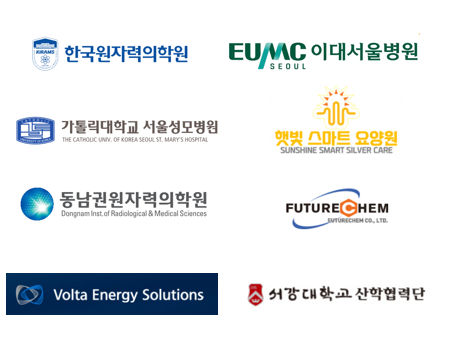
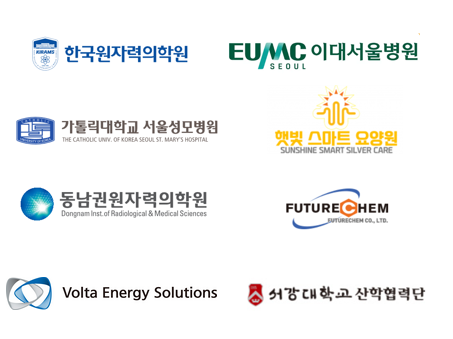
Add files via upload

Changed region(s): [[0.0, 0.7965, 0.4945, 0.944]]

diff --git a/components/detail-page.tsx b/components/detail-page.tsx
@@ -313,8 +313,8 @@ function Partners() {
           </div>
           <figure>
             <img
-              src="/images/volta-energy-solutions.jpg"
-              alt="Volta Energy Solutions 로고"
+              src="/images/partners.png"
+              alt="한국원자력의학원, 이대서울병원, 서울성모병원, 햇빛스마트요양원, 동남권원자력의학원, FutureChem, Volta Energy Solutions, 서강대학교 산학협력단 파트너 로고"
             />
           </figure>
         </section>

diff --git a/app/page.tsx b/app/page.tsx
@@ -218,10 +218,7 @@ export default function Home() {
             </Link>
           </div>
           <figure>
-            <img
-              src="/images/volta-energy-solutions.jpg"
-              alt="Volta Energy Solutions 로고"
-            />
+            <img src="/images/partners.png" alt="다선테크 산업체 파트너 로고 모음" />
           </figure>
         </section>
 
